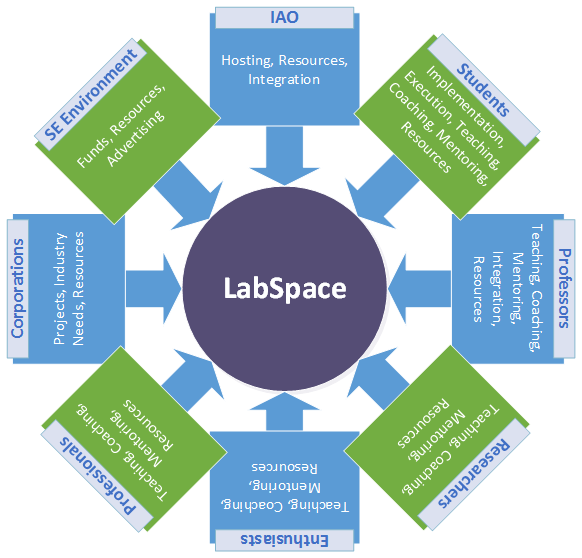
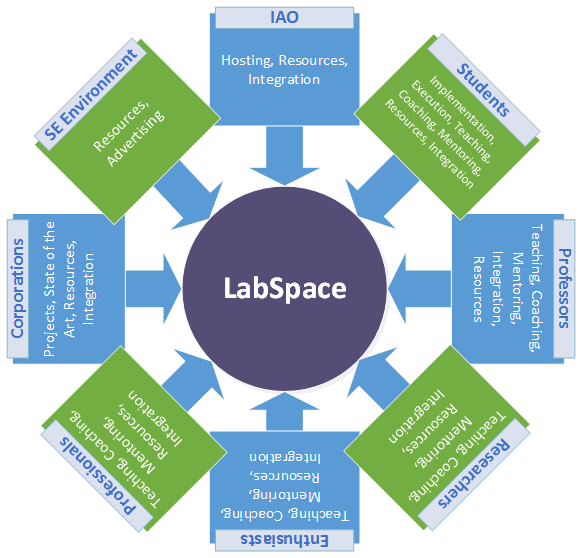
Updated stakeholders, channels and relationships sections. Responsibilities are a bit more clear while still being generic enough.

diff --git a/Specification/specification.tex b/Specification/specification.tex
@@ -56,9 +56,9 @@ Each of the components is explained in more detail below:
 The different roles outside of LabSpace are defined as follows:
 
 \begin{itemize}[noitemsep]
-    \item \textit{Professor}. The person that is employed as a professor in either the \textit{implementing academic organization} or any \textit{other academic organization}.
-    \item \textit{Researcher}. The person that is employed as a researcher in either the \textit{implementing academic organization} or any \textit{other academic organization}.
-    \item \textit{Student}. The person that is studying at either the \textit{implementing academic organization} or any \textit{other academic organization}.
+    \item \textit{Professor}. The person that is employed as a professor in either the \textit{IAO} or any \textit{other academic organization}.
+    \item \textit{Researcher}. The person that is employed as a researcher in either the \textit{IAO} or any \textit{other academic organization}.
+    \item \textit{Student}. The person that is studying at either the \textit{IAO} or any \textit{other academic organization}.
     \item \textit{Professional}. The person that is or has been employed by one or more \textit{corporations} (see definition above) and is either representing his/her organization or is contributing to LabSpace as an individual.
     \item \textit{Enthusiast}. The person that belongs to none of the above categories, but still contributes to LabSpace either by providing resources (see \ref{sec:bm_res}) or by taking part in different activities  (see \ref{sec:bm_activities}).
 \end{itemize}
@@ -96,8 +96,8 @@ Treating LabSpace as a business itself, we can model its operational model using
 
 \begin{itemize}[noitemsep]
     \item The different stakeholders of LabSpace.
-    \item The channels required to reach each stakeholder from a marketing standpoint.
-    \item The relationships build between LabSpace and each of the stakeholders.
+    \item The types of channels required to reach each stakeholder from a marketing standpoint.
+    \item The type of relationships build between LabSpace and each of the stakeholders.
     \item The unique value proposition offered by LabSpace.
     \item The key activities necessary for normal operation.
     \item The key resources necessary for normal operation.
@@ -110,7 +110,7 @@ Since LabSpace is an open specification released under a Creative Commons licens
 % The Stakeholders %
 \subsubsection{The Stakeholders} \label{sec:bm_stakeholders}
 
-Stakeholders are the organizations or individuals that are immediately affected by the implementation of LabSpace and its operation. This section defines the responsibilities of each stakeholder in the LabSpace realm. Looking at Figure \ref{fig:ls_env} we can identify the stakeholders as follows:
+Stakeholders are the organizations or individuals that are immediately affected by the implementation of LabSpace and its operation. This section defines a basic set of responsibilities of each stakeholder in the LabSpace realm. Looking at Figure \ref{fig:ls_env} we can identify the stakeholders as follows:
 
 \begin{itemize}[noitemsep]
     \item The \textit{implementing academic organizations (IAOs)}.
@@ -123,15 +123,15 @@ Stakeholders are the organizations or individuals that are immediately affected 
     \item The \textit{socioeconomic environment}.
 \end{itemize}
 
-The \textit{IAOs} are affected by a LabSpace implementation in a number of different ways. First and foremost, they provide hosting for a particular implementation in terms of housing and other utility resources such as electricity. Access to the premises of LabSpace is granted by the \textit{IAO} based on the rules already in effect. Different \textit{IAOs} have different rules when it comes to accessing their premises so, a LabSpace implementation should always abide to the existing rules to ensure minimal disruption of the current operational state of the hosting academic organization. Secondly, the \textit{IAO} acts as a provider of key resources (see \ref{sec:bm_res}) whether it is material resources (i.e. projectors, lab equipment) or human resources (i.e. professors, researchers). Finally, possible integration of LabSpace with courses provided by the \textit{IAO} and research programs undertaken by it is also something that falls under the responsibilities of the \textit{IAO}.
+The \textit{IAOs} are affected by a LabSpace implementation in a number of different ways. First and foremost, they provide hosting for a particular implementation in terms of housing and other utility resources such as electricity. Access to the premises of LabSpace is granted by the \textit{IAO} based on the rules already in effect. Different \textit{IAOs} have different rules when it comes to accessing their premises so, a LabSpace implementation should always abide to the existing rules to ensure minimal disruption of the current operational state of the hosting academic organization. Secondly, the \textit{IAO} acts as a provider of key resources (see \ref{sec:bm_res}) that are needed by an infant LabSpace implementation to begin its life. The optional IT infrastructure a LabSpace might have could also be something provided by the IAOs own infrastructure, if one exists. Finally, possible integration of LabSpace with courses provided by the \textit{IAO} and research programs undertaken by it is also something that the \textit{IAO} itself must accept and allow. If rules in a specific IAO allow the integration to happen without any involvement by the IAO itslef, this route is always favored to speed up the process.
 
-The \textit{students} are the ones that have the responsibility of implementing and executing a LabSpace implementation. The viability of the space is tightly dependent on the motivation and enthusiasm shown by the students. After all, the whole idea of LabSpace is geared towards the professional and personal development of students. Most of the key activities required for the smooth operation of LabSpace (see \ref{sec:bm_activities}) are mainly carried out by the \textit{students} although cooperation with other stakeholders is always encouraged and sometimes required (e.g. when decisions have to be made that collide with already existing rules by the hosting organizations). Taking into account the borderless knowledge exchange scheme that lives at the heart of LabSpace, \textit{students} can also act as teachers, coaches and mentors to others. Finally, they can also act as providers of key resources (see \ref{sec:bm_res}) if they so desire.
+The \textit{students} are the ones that have the responsibility of implementing and executing a LabSpace implementation. The viability of the space is tightly dependent on the motivation and enthusiasm shown by the students. After all, the whole idea of LabSpace is geared towards the professional and personal development of students. Most of the key activities required for the smooth operation of LabSpace (see \ref{sec:bm_activities}) are mainly carried out by the \textit{students} although cooperation with other stakeholders is always encouraged and sometimes required (e.g. when \textit{students} wish to promote a course integration with LabSpace). Taking into account the borderless knowledge exchange scheme that lives at the heart of LabSpace, \textit{students} can also act as teachers, coaches and mentors to others. Finally, they can also act as providers of key resources (see \ref{sec:bm_res}) if they so desire.
 
-The \textit{professors} are the ones that are expected to teach, coach and mentor the most, inside of LabSpace. In the case of course and research program integrations the initial steps have to be taken by the \textit{professors} and accepted by the \textit{IAO} according to the rules currently in effect. Further maintenance of such integrations is considered to be the main role of a \textit{professor}. Although, \textit{professors} formally initiate such integrations, \textit{students} can request them as well. \textit{Professors} can also act as providers of key resources (see \ref{sec:bm_res}) if they so desire.
+The \textit{professors} are the ones that are expected to teach, coach and mentor the most inside of LabSpace. In the case of course and research program integrations, \textit{professors} can perform the initial steps required for the \textit{IAO} to accept and allow the execution of such a proposal. Further maintenance of such integrations is considered to be the main role of a \textit{professor} (i.e. the course material and organization inside the LabSpace context). \textit{Professors} can also act as providers of key resources (see \ref{sec:bm_res}) if they so desire.
 
-The \textit{researchers}, \textit{enthusiasts} and \textit{professionals} are also expected to teach, coach and mentor inside of a LabSpace implementation bringing in theoretical and practical experience that will help toward the development of \textit{spacers}. Similarly, they could also act as providers of key resources (see \ref{sec:bm_res}) if they so desire.
+The \textit{researchers}, \textit{enthusiasts} and \textit{professionals} are also expected to teach, coach and mentor inside of a LabSpace implementation bringing in theoretical and practical experience that will help towards the development of \textit{spacers}. Additionally, they can push for research program integrations with LabSpace in a way similar to the one \textit{professors} do. Finally, they could also act as providers of key resources (see \ref{sec:bm_res}) if they so desire.
 
-The \textit{corporations} are expected to bring the state of the art of their respective market into LabSpace. Real world projects can be brought into LabSpace giving everyone the chance to work on them and gain useful practical experience. The \textit{corporations} can be active in a LabSpace implementation through \textit{professionals} they employ or through \textit{professors} (or \textit{researchers}) they cooperate with. Of course, they could also act as providers of key resources (see \ref{sec:bm_res}) if they so desire.
+The \textit{corporations} are expected to bring the state of the art of their respective markets into LabSpace. Real world projects can be brought into LabSpace giving everyone the chance to work on them and gain useful practical experience. The scheme applied for this kind of labor provided by LabSace is closely guided by the relationship LabSpace wishes to establish with the particular stakeholder (see \ref{sec:bm_rel}). The \textit{corporations} can be active in a LabSpace implementation through \textit{professionals} they employ or through \textit{professors} (or \textit{researchers}) they cooperate with. Of course, they could also act as providers of key resources (see \ref{sec:bm_res}) if they so desire.
 
 Finally, the \textit{socioeconomic environment} into which LabSpace is active can prove of high importance. It could act as a provider of resources (i.e. material or monetary) or as a means of raising awareness and promoting the LabSpace idea in an attempt to engage the different stakeholders mentioned above.
 
@@ -148,23 +148,34 @@ Figure \ref{fig:ls_responsibilities} summarizes all of the above.
 
 \subsubsection{The Channels}
 
-The channels define the different ways different stakeholders can be reached in order to promote the LabSpace idea and engage them into action according to their responsibilities (see \ref{sec:bm_stakeholders}). For a specific implementation, it is important to first understand how each stakeholder prefers to be reached and how they are currently being reached by others for similar issues. The primary goal here is to identify the most efficient (in terms of cost and time) channel to reach stakeholders while ensuring minimal disturbance to their already existing activities. When interacting with stakeholders it is important to use the appropriate channel for the occasion. This means that, for example when raising awareness, a presentation or an explainer video might be enough for a specific stakeholder, but when evaluating the idea with a stakeholder trying to show the value it offers an explainer video might not be adequate.
+The channels define the different ways different stakeholders can be reached in order to promote the LabSpace idea and engage them into action according to their responsibilities (see \ref{sec:bm_stakeholders}). For a specific implementation, it is important to first understand how each stakeholder prefers to be reached and how they are currently being reached by others for similar issues. The primary goal here is to identify the most efficient (in terms of cost and time) channel to reach stakeholders while ensuring minimal disturbance to their already existing activities. When interacting with stakeholders it is important to use the appropriate channel for the occasion. This means that, for example when raising awareness, a presentation or an explainer video might be enough for a specific stakeholder, but when evaluating the idea trying to show the value it offers, an explainer video might not be adequate.
 
 We define five different phases of interaction with stakeholders that have to do with the different stages of evolution of LabSpace when an implementation is underway. These are the following,
 
-\begin{itemize}[noitemsep]
+\begin{enumerate}[noitemsep]
     \item \textit{Awareness}. The first phase, were we try to raise awareness and promote the idea of LabSpace to the different stakeholders.
     \item \textit{Evaluation}. The second phase, were we try to provide data to the stakeholders in order to prove the usefulness of the idea inside the current \textit{socioeconomic environment}.
     \item \textit{Commitment}. The third phase, were we get the stakeholders to commit to an implementation.
-    \item \textit{Action}. The fourth phase, were stakeholders start executing processes adherent to their responsibilities. Since there is no legal binding document signed between the LabSpace and the different stakeholders this phase acts as a validation of the commitment in phase three.
-    \item \textit{Maintenance}. The final phase, were communication is required to maintain a smooth cooperation between the different partied involved in the LabSpace implementation.
-\end{itemize}
+    \item \textit{Action}. The fourth phase, were stakeholders start executing processes adherent to their responsibilities.
+    \item \textit{Maintenance}. The final phase, were communication is required to maintain a smooth cooperation between the different parties involved in the LabSpace implementation.
+\end{enumerate}
 
-Examples of channels for the different stakeholders include but are not limited to social networks (i.e. Facebook, Twitter, LinkedIn etc.), landing pages, explainer videos, emails, brochures, TV ads, radio ads, word of mouth, direct phone calls, dedicated platforms for LabSpace coordination (this would be useful in the latre phases to facilitate more efficient communication when maintaining an implementation) and others. Of course, the limit here is only the imagination and creativity of the implementing team.
+ Since there is no legal binding document signed between the LabSpace and the different stakeholders, phase four acts as a validation of the commitment in phase three. Examples of channels for the different stakeholders include but are not limited to social networks (i.e. Facebook, Twitter, LinkedIn etc.), landing pages, explainer videos, emails, brochures, TV ads, radio ads, word of mouth, direct phone calls, dedicated platforms for LabSpace coordination (this would be more useful in the final phases to facilitate more efficient communication when an implementation is under maintenance) and others. Of course, the limit here is only the imagination and creativity of the implementing team. Anything that can be thought of as a valid way to achieve the goals of a specific implementation phase should be considered as long as it lies within the legal boundaries of the current \textit{socioeconomic environment}. Figure \ref{fig:implementation} describes the implementation steps referred to above. Note the iterative nature of the process that allows for the steps to be executed in parallel for different stakeholders and also to backtrack and reassess in case the implementation is not moving forward due to problems introduce in an earlier phase. This flexible scheme is proposed to allow the implementing team to proceed as they see fit depending on the \textit{socioeconomic environment} the implementation is taking place in.
 
-\subsubsection{The Relationships}
+\begin{figure}[h!]
+  \begin{center}
+    \includegraphics[width=300px,height=\textheight,keepaspectratio]{imagery/ls_impl.png}
+    \caption{Stakeholders' Responsibilities.}
+    \label{fig:implementation}
+  \end{center}
+\end{figure}
 
-The relationships refer to the expected relationship the LabSpace will have with the stakeholders it affects. Relationships are closely linked with the channels since the use the latter to build on top of them. The kind of relationship a LabSpace implementation will have with a stakeholder greatly depends on the \textit{socioeconomic environment} of implementation and other factors such as the current rules in effect from the \textit{IAO}. Note that relationships include everything from dedicated support (i.e. for students) to business relationships and partnerships with \textit{corporations}.
+\subsubsection{The Relationships} \label{sec:bm_rel}
+
+The relationships refer to the expected relationship the LabSpace will have with its stakeholders. Relationships are closely linked with the channels since the use the latter to build on top of. The kind of relationship a LabSpace implementation will have with a stakeholder greatly depends on the \textit{socioeconomic environment} of implementation and other factors such as the current rules in effect from the \textit{IAO}. Note that relationships include everything from dedicated support (i.e. for students) to business relationships and partnerships with \textit{corporations}.
+
+Defining precise relationships that a LabSpace implementation should build with each stakeholder wouldn't be practical due to the variability of the socioeconomic environment of each implementation. Instead, we are going to focus on what would be a good idea to get out of each stakeholder as a minimum of an operating LabSpace.
+
 
 \subsubsection{The Value Proposition}
 
